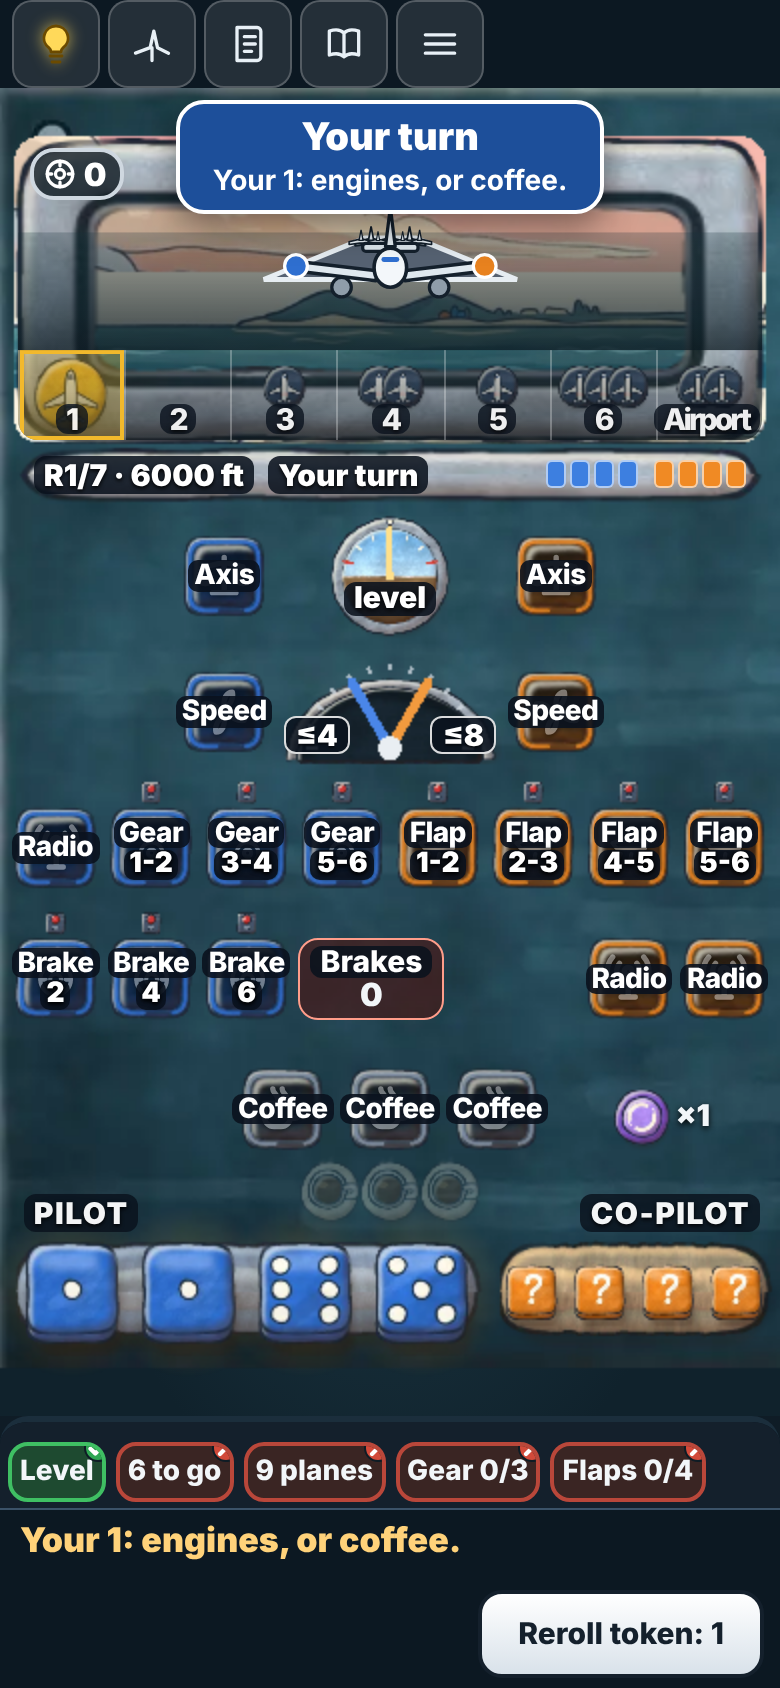
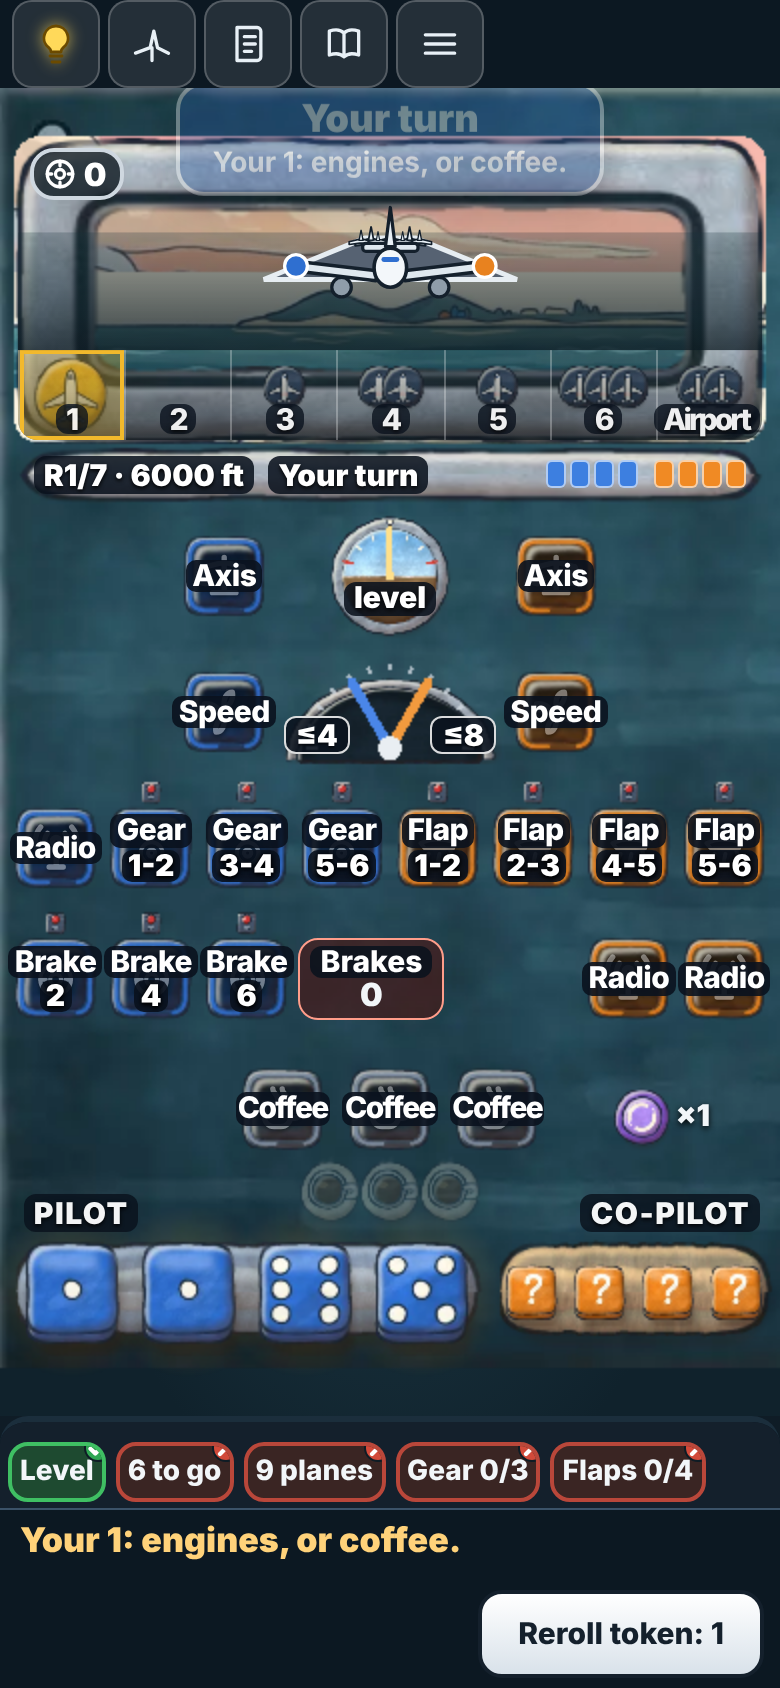
Final Approach: phone-play polish (labels 15px, hidden-dice tray tap target, crewmate plan line)
- Panel slot labels 15px on phones (coffee labels tightened so they do not touch).
- The partner's hidden dice are pictures; the whole tray (137x58 at 375 wide)
  is one tap target that explains why they are hidden.
- Briefing prompt carries the computer crewmate's plan for the round, from
  public facts only ("Ravi: Move one space, then gear next. Tap Roll.", 10 words max).
- hidden-test runs the search at a fixed size (no time guard), so machine load
  can no longer change an answer; 0 problems.

diff --git a/games-src/final-approach/game/src/ui11.js b/games-src/final-approach/game/src/ui11.js
@@ -267,8 +267,8 @@ document.addEventListener('pointerover', e => { if (!hintsMode()) return; const 
     'html.ph #ftrk{display:none!important}.altdots.ftk{gap:2px}.altdots .dk{width:10px;height:14px;border-radius:3px;border:1.5px solid rgba(255,255,255,.6);opacity:.4}.altdots .dk.p.on{background:#3d7fe0;opacity:1}.altdots .dk.c.on{background:#f08a24;opacity:1}.altdots .dsep{width:4px}html.ph #fprev{font-size:14px;padding:4px 8px;margin:2px 0}' +
     '.fa-goal{border-color:#1d4f9a}.fa-goal b,.fa-goal h3{display:block;font-size:17px;line-height:1.3;margin:0 0 6px}.fa-goal ul{margin:6px 0 10px}.fgoal ul{padding-left:18px}.fgoal li{margin:3px 0}.stbox .fgoal{background:#e8f0fb;color:#10223a;border-radius:12px;padding:10px 14px;margin:0 0 10px}' +
     '#acts .btn.ask{background:#fff4d6;color:#3a2a00;border:2px solid #c98a12}.gxh-bulb.hon{box-shadow:0 0 0 3px #ffd46b,0 0 14px #ffd46b}' +
-    '#pz .slot .sword{display:block;font-size:14px;line-height:1.1;font-weight:800;letter-spacing:-.3px;color:#fff;background:rgba(10,18,30,.9);border-radius:5px;padding:0 3px;white-space:nowrap}html.ph #pz .slot.hasv .sl{background:rgba(10,18,30,.9);border-radius:5px;padding:0 3px;color:#fff}html.ph #pz .slot .r1{position:absolute;inset:0;display:flex;align-items:center;justify-content:center;opacity:.4;pointer-events:none;z-index:0}html.ph #pz .slot .sword,html.ph #pz .slot .sl{position:relative;z-index:1}html.ph #pz .slot.hasv .sl{font-size:14px;line-height:1.05}' +
-    '#acts .btn[data-a=rr]:not(.go){flex:0 0 auto;width:auto;min-width:0;margin:0 0 0 auto;padding:0 18px;font-size:15px}.ck .cw{font-size:14px;font-weight:800;white-space:nowrap;padding:0 3px}html.ph .gstrip.chk .ckrow{gap:5px;flex-wrap:nowrap;padding-right:0}html.ph .ck{padding:0 1px}html.ph .ckrow:has(.ck:nth-child(6)) .ck .cw{letter-spacing:-.5px;padding:0 1px}html.ph .ckrow:has(.ck:nth-child(6)){gap:3px}html.ph .gstrip.chk .gi{display:none}html.ph .gstrip.chk{padding:2px 4px}'+
+    '#pz .slot .sword{display:block;font-size:15px;line-height:1.1;font-weight:800;letter-spacing:-.3px;color:#fff;background:rgba(10,18,30,.9);border-radius:5px;padding:0 3px;white-space:nowrap}html.ph #pz .slot.hasv .sl{background:rgba(10,18,30,.9);border-radius:5px;padding:0 3px;color:#fff}html.ph #pz .slot .r1{position:absolute;inset:0;display:flex;align-items:center;justify-content:center;opacity:.4;pointer-events:none;z-index:0}html.ph #pz .slot .sword,html.ph #pz .slot .sl{position:relative;z-index:1}html.ph #pz .slot.hasv .sl{font-size:15px;line-height:1.05}' +
+    '#pz .trayhit{position:absolute;inset:0;min-height:44px;background:transparent;border:0;padding:0;margin:0;z-index:3;cursor:help}#pz .tray .die.cover{pointer-events:none}#pz .slot[data-slot^=co] .sword{letter-spacing:-.8px;padding:0 1px}#acts .btn[data-a=rr]:not(.go){flex:0 0 auto;width:auto;min-width:0;margin:0 0 0 auto;padding:0 18px;font-size:15px}.ck .cw{font-size:14px;font-weight:800;white-space:nowrap;padding:0 3px}html.ph .gstrip.chk .ckrow{gap:5px;flex-wrap:nowrap;padding-right:0}html.ph .ck{padding:0 1px}html.ph .ckrow:has(.ck:nth-child(6)) .ck .cw{letter-spacing:-.5px;padding:0 1px}html.ph .ckrow:has(.ck:nth-child(6)){gap:3px}html.ph .gstrip.chk .gi{display:none}html.ph .gstrip.chk{padding:2px 4px}'+
     '@media (min-width:1024px){#pz .slot .sword,.ck .cw{font-size:16px}}' +
     '.fa-skip{position:fixed;right:10px;bottom:calc(var(--fa-skipb,150px));z-index:9981;min-height:44px;padding:0 16px;border-radius:22px;border:2px solid #fff;background:#1b2230;color:#fff;font-size:15px;font-weight:800;box-shadow:0 4px 12px rgba(0,0,0,.45)}html:not(.ph) .fa-skip{top:64px;bottom:auto;right:auto;left:16px;font-size:16px}html.ph .fa-skip{top:auto;bottom:auto;top:52px;right:8px;min-height:36px;font-size:14px;padding:0 12px}html.ph body:has(.fa-skip) .fa-coach{top:94px}' +
     'html.ph #pz .slot .pw small,html.ph #pz .slot .pw b,html.ph .tbtn span,html.ph .ttut span,html.ph .gxc-sheet *,html.ph .gxc-head *,html.ph .gxc-path *,html.ph #says *,html.ph .rsbox *,html.ph .fa-ro *,html.ph .gx-drawer *{font-size:max(14px,1em)!important}' +

diff --git a/games-src/final-approach/game/src/ui2.js b/games-src/final-approach/game/src/ui2.js
@@ -120,9 +120,11 @@ function render() {
     const rrmode = G.pend && G.pend.h === 'rr' && me === s && mayAct(s) && !G.pend.d.m[s];
     for (let i = 0; i < nd; i++) {
       const d = G.dice[s][i], used = d.u || G.phase !== 'place', sel = UI.sel === i && me === s, cv = sel && UI.cof ? d.v + UI.cof : d.v;   // coffee changes the face shown
+      if (!show && !used) { tr2.appendChild(h('div.die.cover', { 'data-s': s, 'data-d': i, 'aria-hidden': 'true', style: 'width:' + ds + 'px;height:' + ds + 'px' }, dvEl('?', (s === 0 ? 'b' : 'o') + ' q'))); continue; }   // a hidden die is a picture; the whole tray is the tap target (below)
       const b = h('button.die' + (used ? '.used' : '') + (show && !used && mayAct(s) ? '' : '.cover') + (sel ? '.sel' : '') + (show && !used && !sel && mayAct(s) && !G.result && FA.pending(G).includes(s) && G.phase === 'place' && (!G.pend || G.pend.h === 'rr') ? '.can' : '') + (rrmode && UI.rrm[i] ? '.rrm' : ''), { type: 'button', 'data-a': 'die', 'data-s': s, 'data-d': i, style: 'width:' + ds + 'px;height:' + ds + 'px', 'aria-label': used ? 'used' : (show ? pname(s) + ' die showing ' + cv + (cv !== d.v ? ' (with coffee, rolled ' + d.v + ')' : '') : pname(s) + ' die, hidden'), disabled: (used || !(show && mayAct(s))) ? true : null });
       b.appendChild(dvEl(show ? cv : '?', (s === 0 ? 'b' : 'o') + (show ? '' : ' q') + (show && cv !== d.v ? ' cof' : ''))); tr2.appendChild(b);
     }
+    if (!show && G.phase === 'place' && !G.result) { const left = G.dice[s].filter(d => !d.u).length; if (left) tr2.appendChild(h('button.trayhit', { type: 'button', 'data-a': 'hidtap', 'data-s': s, 'aria-label': pname(s) + ': ' + left + ' hidden ' + (left > 1 ? 'dice' : 'die') + '. Tap to learn why.' })); }
     if (G.pend && (G.pend.h === 'intern' && G.pend.d.seat === s || G.pend.h === 'sync' && s === 1) && (show || sharedSeat() === s)) { const val = G.pend.d.val + (UI.sel === 'p' && G.pend.h === 'sync' ? UI.cof : 0); tr2.appendChild(h('button.die' + (UI.sel === 'p' ? '.sel' : ''), { type: 'button', 'data-a': 'die', 'data-s': s, 'data-d': 'p', style: 'width:' + ds + 'px;height:' + ds + 'px', 'aria-label': (G.pend.h === 'intern' ? 'Trainee token ' : 'Traffic die ') + val }, dvEl(val, (G.pend.h === 'intern' ? 't' : 'k') + (val !== G.pend.d.val ? ' cof' : '')))); }
     pz.appendChild(tr2);
   }

diff --git a/games-src/final-approach/game/src/ui8.js b/games-src/final-approach/game/src/ui8.js
@@ -5,7 +5,7 @@ function phPrompt() {
   if (UI.flash && UI.flash.until > Date.now()) return UI.flash.t;
   if (G.result) return document.querySelector('#fx .endb') ? '' : endWords();   // the end banner already says it: say it once
   const v = actSeat(), pend = FA.pending(G), mine = typeof v === 'number' && v >= 0 && mayAct(v);
-  if (G.phase === 'brief') return mine ? (G.ready[v] ? 'Waiting for your crewmate.' : 'Tap Roll to start.') : 'Crew getting ready.';
+  if (G.phase === 'brief') return mine ? (G.ready[v] ? 'Waiting for your crewmate.' : (crewPlan(v) || 'Tap Roll to start.')) : 'Crew getting ready.';
   if (G.pend) {
     const p = G.pend, me = mine && pend.includes(v);
     if (p.h === 'rr') return me && !p.d.m[v] ? 'Tap dice to reroll, or keep.' : 'Waiting for the reroll.';
@@ -220,3 +220,14 @@ document.addEventListener('pointerdown', e => {
     const a = AIDELAY; AIDELAY = 60; try { schedule(); } finally { AIDELAY = a; }
   } catch (er) { }
 }, true);
+// the computer crewmate's plan for this round, said in the briefing (public facts only, the same advice its briefing phrases use): "Ravi: Move one space, then gear next. Tap Roll."
+const PLANW = { adv0: 'hold position', adv1: 'move one space', adv2: 'move two spaces', plane: 'clear the traffic', level: 'level the axis', gear: 'gear next', flaps: 'flaps next', brakes: 'brakes soon', coffee: 'save coffee', slow: 'keep the speed low', fuel: 'watch the fuel', trainee: 'train the trainee', first: 'I go first', ok: 'all good' };
+function crewPlan(v) {
+  try {
+    const o = 1 - v; if (!G || !G.ai || !G.ai[o] || G.lad === 1 || UI.mode === 'net') return '';
+    const k = G.seed + ':' + G.round + ':' + v; if (UI._plan && UI._plan.k === k) return UI._plan.t;
+    const c = FA.AI.say(G, o).filter(x => PLANW[x]).slice(0, 2); let t = '';
+    if (c.length) { const a = PLANW[c[0]]; t = name(o) + ': ' + a[0].toUpperCase() + a.slice(1) + (c[1] ? ', then ' + PLANW[c[1]] : '') + '. Tap Roll.'; }
+    UI._plan = { k, t }; return t;
+  } catch (e) { return ''; }
+}

diff --git a/games-src/final-approach/game/hidden-test.js b/games-src/final-approach/game/hidden-test.js
@@ -5,6 +5,7 @@
 //    A deliberately cheating chooser must be caught by the same comparison.
 // 3. The log and the event list written before placement reveal nothing about unplaced dice.
 const T = require('./tlib.js'); require('./src/ai.js'); const { FA, D } = T;
+FA.AI.NMC.ms = 0; FA.AI.HMC.ms = 0;   // fixed search size: the phone time guard would let machine load, not hidden facts, change the answer
 const games = +process.argv[2] || 40; const J = JSON.stringify; let bad = 0, checks = 0; const probs = []; const P = m => { bad++; if (probs.length < 12) probs.push(m); };
 let pr = 987654321; const prnd = () => { pr = (Math.imul(pr, 1103515245) + 12345) >>> 0; return pr / 4294967296; };
 function poison(G, seat) { const c = FA.clone(G); c.seed = 777; c.rng = 4242; c.script = [[[6, 6, 6, 6], [6, 6, 6, 6]]]; const o = 1 - seat; for (const d of c.dice[o]) if (!d.u) d.v = 1 + Math.floor(prnd() * 6); if (c.pend && c.pend.h === 'rr') c.pend.d.m = c.pend.d.m.map((m, s) => s === o && m ? m.map(() => !!(prnd() < .5)) : m); if (c.pend && c.pend.h === 'wt' && c.pend.d.a === o) c.pend.d.ai = (c.pend.d.ai + 1) % 4; return c; }

diff --git a/games-src/final-approach/game/src/ui5.js b/games-src/final-approach/game/src/ui5.js
@@ -64,6 +64,7 @@ document.addEventListener('click', ev => {
   if (d.start && !a) { newGame(d.start); return; }
   switch (a) {
     case 'die': dieTap(+d.s, d.d === 'p' ? 'p' : +d.d); break;
+    case 'hidtap': toast(name(+d.s) + '’s dice stay hidden until placed. Watch the board.'); break;
     case 'slot': slotTap(d.slot); break;
     case 'ready': case 'say': case 'rr': case 'rrpick': case 'antic': case 'adapt': case 'wt': case 'toss': case 'cof': doAction(a, t); break;
     case 'unsel': UI.sel = -1; UI.cof = 0; UI.warnK = null; render(); break;
